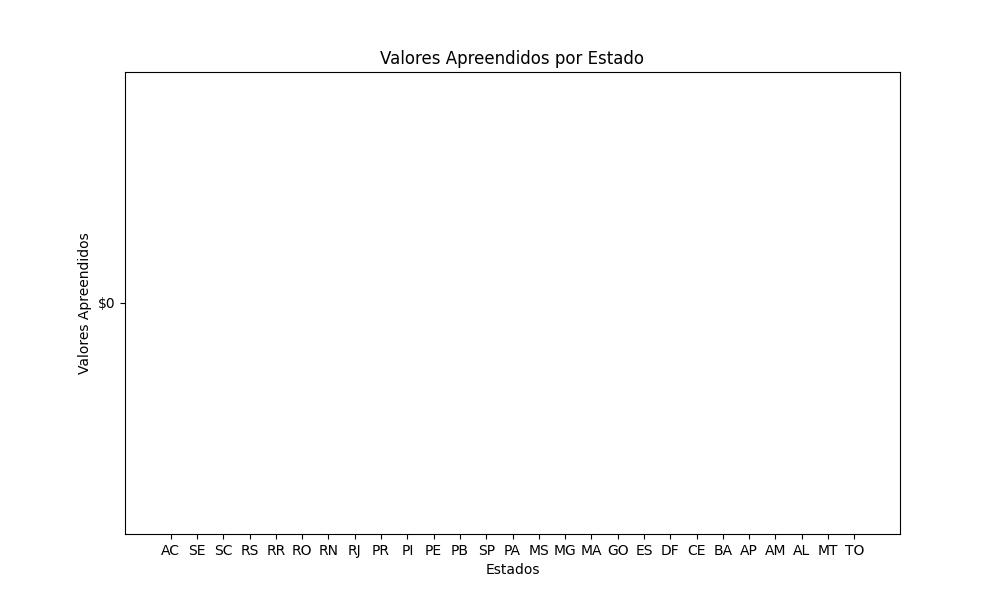
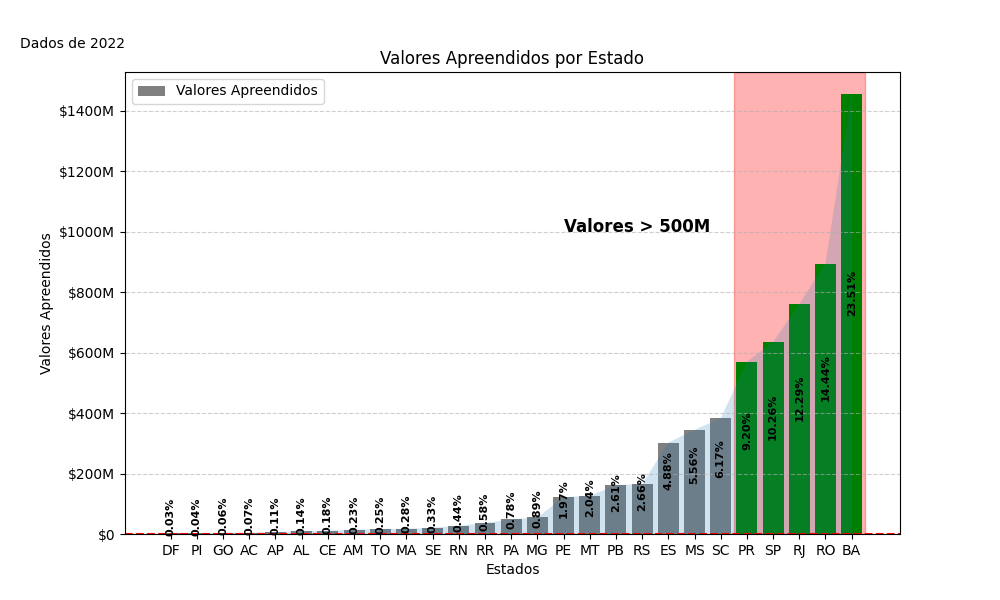
Site com responsividade básica

diff --git a/styles/global.css b/styles/global.css
@@ -7,23 +7,26 @@ body {
   }
   
   header {
-    background-color: #333;
+    z-index: 10;
+    background-color: rgba(20, 29, 20, 0.8);
     color: #fff;
     height: 15vh;
-    padding: 5px 30px;
+    width: 100%;
     text-align: center;
     align-items: center;
     display: flex;
     justify-content: space-between;
-    position: relative;
+    position: fixed;
+    top: 0;
   }
 
   header h1 {
     font-size: 40px;
+    margin-left: 5%;
   }
   
   nav {
-    margin-top: 20px;
+    margin-right: 5%;
     text-align: left;
     font-size: 12px;
   }
@@ -43,7 +46,7 @@ nav li a {
 }
 
 .inicial {
-    height: 85vh;
+    height: 100vh;
     width: 100%;
     display: flex;
     justify-content: center;
@@ -188,4 +191,116 @@ footer p {
     color: #333; 
 }
 
-/* JOAO.HTML */
+
+/* Estilos para telas menores (tablet) */
+@media (max-width: 820px) {
+    header {
+        height: 10vh;
+    }
+
+    header h1 {
+        font-size: 30px;
+    }
+
+    nav {
+        font-size: 10px;
+        gap: 5px;
+    }
+
+    nav {
+        margin-right: 2%;
+    }
+
+    nav ul {
+        gap: 10px;
+    }
+
+    nav li a {
+        font-size: 14px;
+    }
+
+    .inicial h2 {
+        font-size: 40px;
+    }
+
+    .inicial h3 {
+        font-size: 30px;
+    }
+
+    .explic h2 {
+        font-size: 40px;
+    }
+
+    .explic p {
+        font-size: 16px;
+        padding-left: 5%;
+        padding-right: 5%;
+    }
+
+    .explic img {
+        margin-left: 1%;
+        margin-right: 5%;
+    }
+
+
+    .botao_git {
+        font-size: 20px;
+        padding: 5% 20%;
+    }
+
+    .texto_explic {
+        font-size: 18px;
+    }
+}
+
+/* Estilos para telas menores (celular) */
+@media (max-width: 480px) {
+    header h1 {
+        font-size: 24px;
+    }
+
+    nav {
+        margin-right: 1%;
+        font-size: 10px;
+    }
+
+    nav ul {
+        gap: 5px;
+    }
+
+    nav li a {
+        font-size: 12px;
+    }
+
+    .inicial h2 {
+        font-size: 30px;
+    }
+
+    .inicial h3 {
+        font-size: 22px;
+    }
+
+    .explic h2 {
+        font-size: 30px;
+    }
+
+    .explic p {
+        font-size: 14px;
+        padding-left: 2%;
+        padding-right: 2%;
+    }
+
+    .explic img {
+        margin-left: 1%;
+        margin-right: 2%;
+    }
+
+    .botao_git {
+        font-size: 16px;
+        padding: 2% 15%;
+    }
+
+    .texto_explic {
+        font-size: 16px;
+    }
+}

diff --git a/index.html b/index.html
@@ -21,8 +21,8 @@
   
   <main class="content">
     <div class="inicial">
-        <h2>Trabalho</h2>
-        <h3>Gráficos de cada um</h3>
+        <h2>Avaliação 1</h2>
+        <h3>Visualizações do grupo</h3>
     </div>
 
     <div class="explic">
@@ -87,9 +87,9 @@
 
 
         <div class="container_explic_2">
-           <img src="images/nós.jpg" alt="nós". height="500", width="500">
+           <img src="images/nós.jpg" alt="nós". height="400", width="400">
             
-            <img src="images/nós.jpg" alt="nós". height="500", width="500">
+            <img src="images/nós.jpg" alt="nós". height="400", width="400">
         </div>
     </div>
 

diff --git a/styles/graph.css b/styles/graph.css
@@ -1,5 +1,6 @@
 
 .inicial_graph {
+    margin-top: 15vh;
     height: 15vh;
     width: 100%;
     display: flex;
@@ -20,3 +21,27 @@
     margin:0
 }
 
+
+/* Estilos para telas menores (tablet) */
+@media (max-width: 820px) {
+    .inicial_graph {
+        margin-top: 10vh;
+        height: 10vh;
+    }
+
+    .inicial_graph h2 {
+        font-size: 36px;
+    }
+}
+
+/* Estilos para telas menores (celular) */
+@media (max-width: 480px) {
+    .inicial_graph {
+        margin-top: 5vh;
+        height: 8vh;
+    }
+
+    .inicial_graph h2 {
+        font-size: 28px;
+    }
+}

diff --git a/joao.py b/joao.py
@@ -12,7 +12,7 @@ df_estados = df.groupby('Sigla Unidade Federativa')['Qtd Valores Apreendidos'].s
 df_estados = df_estados.rename(columns={'Qtd Valores Apreendidos': 'Total Valores Apreendidos'})
 df_estados = df_estados.sort_values(by='Total Valores Apreendidos', ascending=True)
 
-print(df_estados)
+colors = ['green' if i > 21 else 'gray' for i in range(len(df_estados))]
 
 def graph_currency(value, pos):
     if value >= 1e6: 
@@ -21,7 +21,29 @@ def graph_currency(value, pos):
         return f'${value:.0f}' 
 
 plt.figure(figsize=(10, 6))
-plt.bar(df_estados['Sigla Unidade Federativa'], df_estados['Total Valores Apreendidos'])
+plt.bar(df_estados['Sigla Unidade Federativa'], df_estados['Total Valores Apreendidos'], color=colors)
+
+plt.legend(['Valores Apreendidos'], loc='upper left')
+
+plt.axvspan(21.5, 26.5, color='red', alpha=0.3, label='Valores acima de 500 milhões')
+
+plt.text(15, 1000000000, 'Valores > 500M', fontsize=12, color='black', fontweight='bold')
+
+bars = plt.bar(df_estados['Sigla Unidade Federativa'], df_estados['Total Valores Apreendidos'], color=colors)
+
+total_sum = df_estados['Total Valores Apreendidos'].sum()
+
+for bar in bars:
+    height = bar.get_height()
+    percentage = (height / total_sum) * 100
+    plt.text(bar.get_x() + bar.get_width() / 2, height / 2, f'{percentage:.2f}%', ha='center', va='baseline', rotation=90, fontsize=8, fontweight='bold', color='#010101', linespacing=0.9)
+
+
+plt.axhline(y=1000000, color='r', linestyle='--', label='Limiar de 1 milhão')
+plt.fill_between(df_estados['Sigla Unidade Federativa'], 0, df_estados['Total Valores Apreendidos'], alpha=0.2)
+plt.title('Valores Apreendidos por Estado em 2022')
+plt.grid(axis='y', linestyle='--', alpha=0.6)
+plt.text(0.02, 0.92, 'Dados de 2022', transform=plt.gcf().transFigure)
 
 plt.xlabel('Estados')
 plt.ylabel('Valores Apreendidos')
